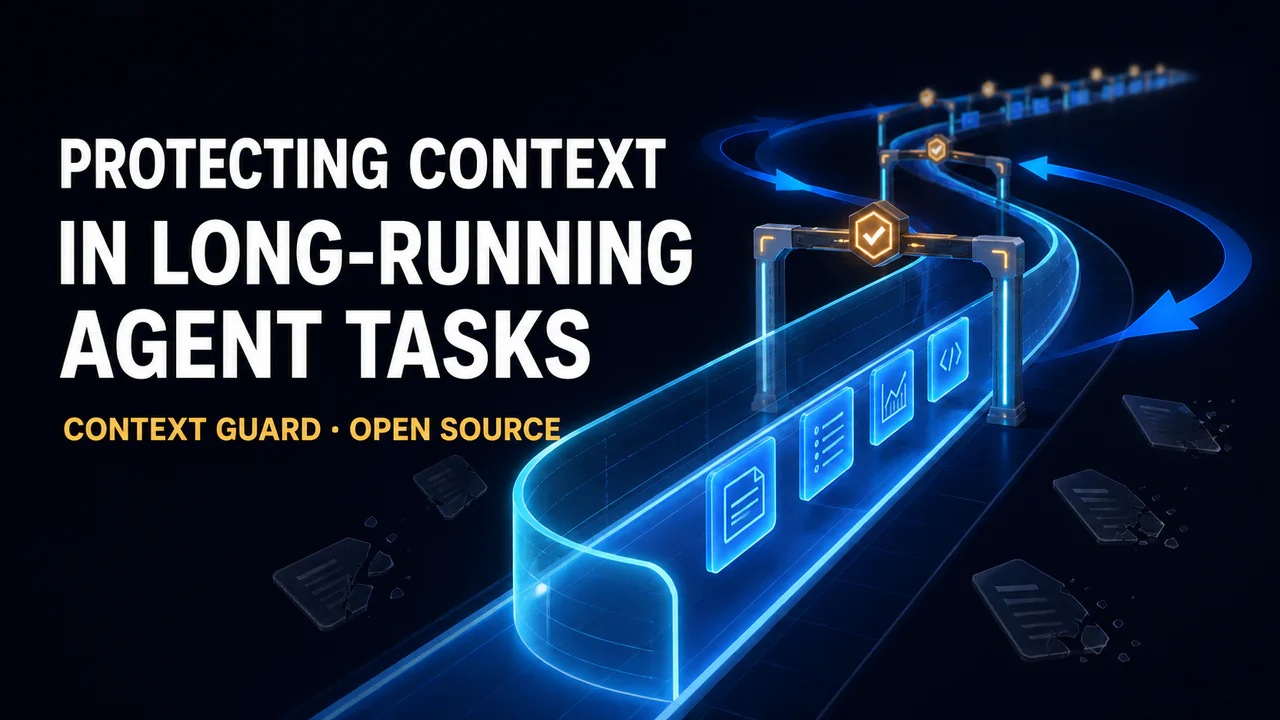
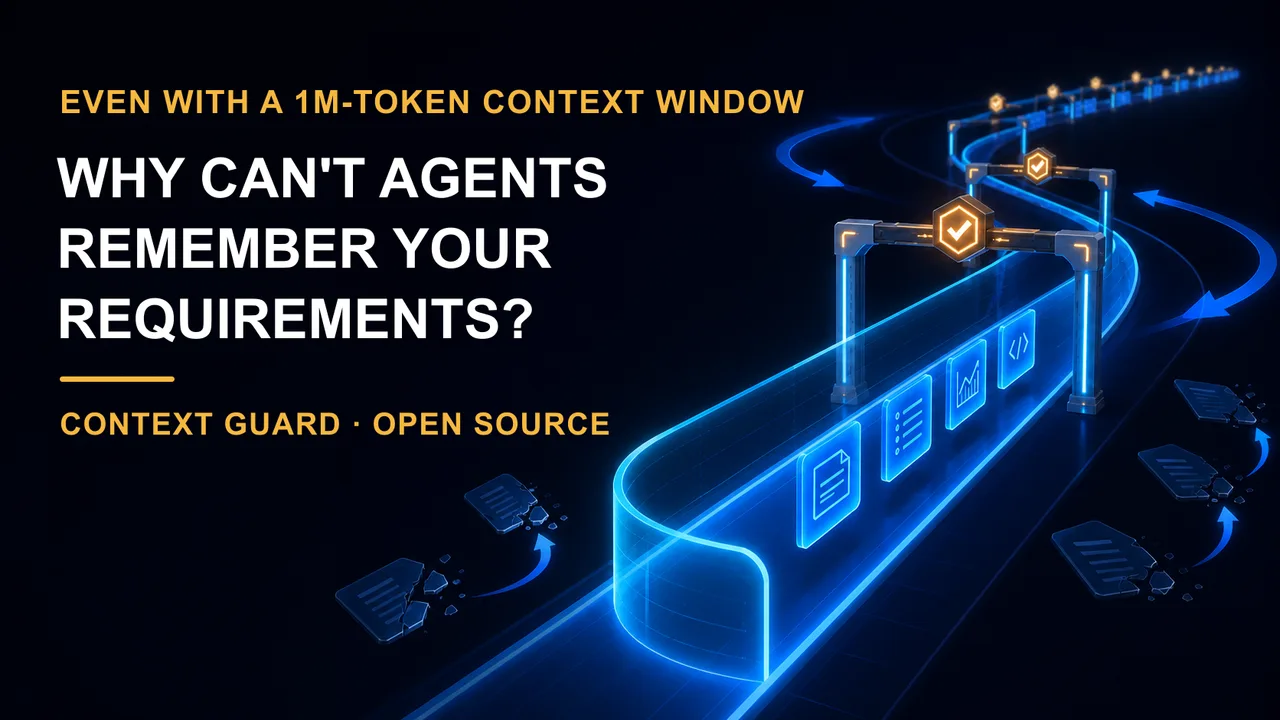
Update Context Guard article

diff --git a/_posts/2026-08-06-protecting-context-in-long-running-agent-tasks.md b/_posts/2026-08-06-protecting-context-in-long-running-agent-tasks.md
@@ -1,13 +1,13 @@
 ---
-title: "Protecting Context in Long-Running Agent Tasks: Introducing Context Guard"
+title: "Why Can't Agents Remember Your Requirements Even with a 1M-Token Context Window?"
 date: 2026-08-06 13:52:08 +0800
 permalink: /blogs/protecting-context-in-long-running-agent-tasks/
 categories:
   - blogs
-excerpt: "Context Guard keeps a private, verifiable ledger of active requirements and completion evidence so long-running Codex tasks can survive compaction without silently changing their contract."
+excerpt: "Why a 1M-token context window still does not keep an agent's requirements active—and how Context Guard preserves the task contract and completion evidence through long-running Codex work."
 header:
   teaser: blogs/context-guard-open-source-en.webp
-  teaser_alt: "A glowing workflow passes through guarded checkpoints in a cover illustration for Context Guard"
+  teaser_alt: "A guarded context path illustrating why a larger context window does not by itself preserve an agent's requirements"
 chinese_url: https://blog.csdn.net/LvGreat/article/details/163534498
 author_profile: true
 read_time: false
@@ -19,112 +19,136 @@ related: false
 <p class="blog-post-source">Also available as the <a href="{{ page.chinese_url }}">original Chinese article</a>.</p>
 
 <figure class="blog-cover">
-  <img src="{{ '/images/blogs/context-guard-open-source-en.webp' | relative_url }}" alt="A glowing workflow passes through guarded checkpoints, illustrating context protection in long-running agent tasks">
-  <figcaption>Context Guard protects the requirements and evidence that determine whether a long-running task is actually complete.</figcaption>
+  <img src="{{ '/images/blogs/context-guard-open-source-en.webp' | relative_url }}" alt="A guarded context path illustrating why a larger context window does not by itself preserve an agent's requirements">
+  <figcaption>A 1M-token context window can carry more material, but it does not automatically preserve the requirements that determine whether a long-running task is complete.</figcaption>
 </figure>
 
 <div class="blog-post-body" markdown="1">
 
-AI agents are changing the basic unit of work. In the past, we often understood one model call as one question-and-answer exchange or one local code change. Today, agents such as Codex are beginning to take on tasks that last for hours, days, or even longer. They call tools, coordinate multiple agents, and receive new requirements from users while the work is already in progress. [OpenAI's introduction to the Codex app](https://openai.com/index/introducing-the-codex-app/) describes this shift from targeted edits to longer-running collaboration across design, implementation, delivery, and maintenance.
+You may have seen this happen.
 
-In these long-running, dynamic tasks, the emerging practice of loop engineering reflects a continuous way of working: the agent executes one round, inspects the result, receives revisions, and continues. [The Codex agent loop](https://openai.com/index/unrolling-the-codex-agent-loop/) coordinates the user, model, and tools throughout that process.
+At the start, you tell an agent: “Do not change the existing format.” “Do not invent missing data.” “Keep the total under $2,000.” It follows those instructions for several rounds and repeatedly confirms that it understands them.
 
-Once a task enters this loop, the main correctness problem changes. It is no longer enough to ask how well the model performed in the latest turn. We also need to ensure two things:
+Then the task keeps running. Tokens keep burning, time disappears into searches, tool calls, and revisions, and you wait for a result that will finally justify the effort. What comes back is nowhere near what you expected: the format has changed, missing data has been confidently invented, or the budget cap that mattered most has vanished. The result is unusable, and you find yourself furiously typing into the chat box: “Didn't I say this at the very beginning?”
 
-1. **The task contract remains stable.** Goals, constraints, acceptance criteria, and later revisions confirmed by the user must not be silently rewritten after context compaction or task recovery.
-2. **Completion claims remain traceable to evidence.** Every active requirement should have corresponding successful evidence. Unverified, unauthorized, or unfinished work must not be presented as complete.
+The most frustrating part is that the agent has not forgotten the entire task. It still knows what you asked it to produce and can often repeat most of the background. It has lost one requirement that determines whether the result is usable.
 
-The goal is not to make the agent remember the entire conversation, nor to build another planning and scheduling system. The goal is to preserve the small amount of state that determines whether the result is correct: which requirements are currently active, which have been verified, and which still require work.
+A result like this is easy to blame on the model simply not being smart enough. But that diagnosis is incomplete. Model capability certainly affects performance, yet this exposes a different failure mode: understanding a requirement once does not guarantee that the requirement will continue to govern every later action. Even a capable model still needs an explicit way to maintain active requirements, later revisions, and completion evidence throughout a long-running task.
 
-To address this problem, I built and open-sourced [Context Guard](https://github.com/GreenLv/codex-context-guard). It is a local correctness sidecar for Codex that uses lifecycle hooks to maintain a private, verifiable ledger of requirements and evidence.
+Users of [Claude Code](https://github.com/anthropics/claude-code/issues/32659) and [Cursor](https://forum.cursor.com/t/critical-rules-do-not-survive-context-compression-events/157249) have reported the same pattern: a constraint is acknowledged early, then stops reliably shaping later actions as the session grows or is compressed. These reports do not prove a single cause. They describe the same practical failure: a requirement that has been present all along, and can still be restated accurately, ultimately fails to reliably constrain the agent's actions and final deliverable.
 
-A familiar travel-planning example shows what Context Guard does. A user begins with a simple request:
+It is tempting to reduce this to a context-capacity problem. Some models now offer windows on the order of one million tokens. [OpenAI lists GPT-5.6 Sol with a 1,050,000-token context window](https://developers.openai.com/api/docs/models/gpt-5.6-sol). That is a meaningful improvement: an agent can retain more code, tool output, and conversation history before older material has to be compacted. But a larger container does not guarantee that every important instruction remains active.
 
-> I want to travel from Wuhan to Beijing next week for seven days. Please plan the trip for me.
+The harder question is not only how much an agent can see. It is whether the agent can keep track of which requirements still apply, which revision superseded an earlier instruction, and what evidence is needed before the task can honestly be called complete.
 
-After Codex starts checking transportation, hotels, and attractions, the user adds more details: the trip is for the user and their mother; the mother has knee problems and cannot walk too much each day; both directions must use high-speed rail; the total budget for two people must stay below RMB 8,000; Wednesday from 15:00 to 19:00 is reserved for meeting a friend in Haidian; they want to visit the Forbidden City; and every reservation-dependent item must be checked against an official source before it can be described as booked.
+## 1. What a 1M-token window solves—and what it does not
 
-As Codex compares train services, hotels, reservation rules, and daily routes, the conversation grows. If context compaction happens at this point, the summary may still remember that the task is a seven-day trip from Wuhan to Beijing, yet omit the mother's walking constraint or schedule another attraction on Wednesday afternoon. It may also find an outdated travel guide and treat unverified opening hours or ticket availability as confirmed.
+### 1.1 A context window is a capacity limit, not a priority list
 
-The model has not forgotten the whole task. It still remembers the destination, but it has lost a few constraints that determine whether the plan can actually be used.
+A context window answers one question: how much input can participate in a model call. It does not assign permanent priority to a sentence such as “never modify the appendix,” or turn that sentence into an invariant across dozens of later actions.
 
-## 1. What problem does it solve?
+A long-running task can contain the original request, later corrections, tool results, error logs, source material, and several drafts at once. Even when all of it still fits, the model has to decide what matters before every action. In multi-document question answering and key-value retrieval experiments, [*Lost in the Middle*](https://arxiv.org/abs/2307.03172) found that performance was generally strongest when relevant information appeared near the beginning or end and degraded when it appeared in the middle, including for models explicitly designed for long contexts. The information is present, but presence alone does not ensure reliable use.
 
-For the Beijing trip, Context Guard focuses on the task contract that develops over time rather than the complete conversation:
+This distinction becomes more important as the window grows. One million tokens is not a curated requirements document. It is a very large workspace in which a few decisive constraints can be surrounded by a much larger volume of process material. Adding capacity does not perform the work of selecting and maintaining task state.
+
+### 1.2 Following a requirement is harder than retrieving a sentence
+
+Many long-context evaluations use a single-needle task: place one fact inside a large input and ask the model to retrieve it. Real requirements rarely look like one isolated needle. They are distributed across turns and often contain conditions, exceptions, and negation:
+
+- “Do not change the table format, but update these three columns.”
+- “Keep the total under $2,000, including local transportation.”
+- “Do not schedule anything on Wednesday afternoon,” rather than merely remembering that a meeting exists.
+- “Describe a reservation as booked only after checking a current official source.”
+
+The agent must retrieve these statements, combine them, map them to the current action, and check the result before delivery. That is a multi-step constraint problem, not a lookup.
+
+[A recent study of five models with advertised million-token windows](https://arxiv.org/abs/2605.02173) makes the distinction visible. The strongest models still reached 100% on single-needle retrieval at 1M tokens, but every model declined when the task required a three-hop chain across different parts of the context. Some remained above 80% through 512K and degraded modestly at 1M; others fell sharply between 512K and 1M. The corpus was classical Chinese, not agent instructions, but the result supports a narrower point that applies here: nominal window length does not measure how reliably a model can combine everything inside that window.
+
+### 1.3 Conversation history is not current task state
+
+Real tasks also change. A user may begin with “keep it under $2,500” and later revise the limit to $2,000. They may add a fixed appointment, remove an earlier deliverable, or clarify that an instruction applies to only one file.
+
+The full conversation now contains both the old and new versions. The agent still has to determine which requirement is active, which one was superseded, where a constraint applies, and which conflict needs clarification. Conversation history records what was said over time. Task state represents what should happen now. They are not the same data structure.
+
+More history can therefore preserve a conflict without resolving it. Unless revisions are represented explicitly, the agent may continue following the old instruction or treat a local correction as a global replacement.
+
+### 1.4 Remembering a requirement is not satisfying it
+
+Even correct retrieval does not complete the task. An agent may remember that it must check an official source and successfully open a page. That proves the lookup ran. It does not prove that the source is official, that the information is current, or that a reservation was completed. The agent may also produce a seven-day itinerary and a budget total while still placing an activity inside a fixed appointment.
+
+A long task therefore has at least three kinds of state: active requirements, work already performed, and evidence that the requirements were satisfied. Conversation history records much of what happened, but it does not automatically establish a requirement-to-evidence relationship. Without that relationship, “I ran a search,” “the command exited,” or “the file exists” can be mistaken for proof that the full requirement passed.
+
+### 1.5 Compaction is not the root cause, but it amplifies the problem
+
+One million tokens is still finite. As a task grows, an agent may compact earlier material or resume from a summary. Compaction is lossy by design. A summary tends to retain the main storyline while dropping a negative constraint, an acceptance condition, an unresolved conflict, or a recent revision. “Plan a seven-day New York trip” survives; “limit walking” and “do not call an unverified reservation booked” may not.
+
+Public Codex issues show two concrete versions of this failure. In [issue #19910](https://github.com/openai/codex/issues/19910), mid-turn compaction reportedly failed to carry forward the completion-audit requirement attached to the active goal, and local verification was treated as whole-goal completion. In [issue #35226](https://github.com/openai/codex/issues/35226), the agent retained the broad project objective but lost execution progress, repeatedly reread the same files, and restarted the same analysis. These are two public cases, not evidence of how frequently the problem occurs. They do illustrate the same distinction: preserving the main objective is not the same as preserving task state.
+
+A larger window delays compaction and lets the agent access more original material. Using the entire window also costs more. Under [GPT-5.6 Sol's current API pricing](https://developers.openai.com/api/docs/models/gpt-5.6-sol), once the input exceeds 272K tokens, the entire request—not only the excess—is charged at twice the input rate and 1.5 times the output rate. Long context is better treated as a resource than as a target to fill by default.
+
+A 1M-token window therefore relieves capacity pressure without automatically solving priority, revision, progress, or acceptance. The state that needs the strongest protection is usually much smaller than the conversation: the active requirements, their revision relationships, and the evidence needed to close them. That is the design premise of Context Guard.
+
+## 2. What Context Guard protects
+
+<figure class="blog-diagram">
+  <img src="{{ '/images/blogs/context-guard-body-leading-en.jpg' | relative_url }}" alt="A large context stream carries task records while Context Guard checkpoints protect critical requirements from drifting away">
+  <figcaption>Context Guard protects the requirements that determine whether a long-running task can be completed honestly.</figcaption>
+</figure>
+
+[Context Guard](https://github.com/GreenLv/codex-context-guard) is a local correctness layer I built for Codex. It does not store the whole conversation or try to replace model memory. It uses [lifecycle hooks](https://github.com/GreenLv/codex-context-guard/blob/main/docs/ARCHITECTURE.md) to maintain a private, verifiable ledger of requirements and evidence.
+
+Consider an everyday planning task. You begin with a simple request:
+
+> I am taking my mother from Boston to New York next week for seven days. Please plan the trip.
+
+After the assistant starts comparing trains, hotels, and attractions, you add the details that make the plan usable: your mother has knee pain and cannot walk long distances; both directions must be by train, with no flights; the total budget for two must stay below $2,000; Wednesday from 3:00 p.m. to 7:00 p.m. is reserved for meeting a friend in Queens; you want to visit the Statue of Liberty; and anything that depends on a reservation must be checked against a current official source before it can be described as booked.
+
+As the agent compares schedules, hotels, reservation rules, and daily routes, the conversation grows. After compaction, the summary may still remember “a seven-day New York trip from Boston” while dropping the walking constraint or scheduling an attraction on Wednesday afternoon. It may also rely on an outdated travel guide and describe unverified hours or ticket availability as confirmed.
+
+The whole task has not disappeared. A few conditions that determine whether the plan can be used have.
+
+Context Guard focuses on the contract that develops over time:
 
 ```text
-[ ] Seven-day round trip from Wuhan to Beijing next week
-[ ] Two travelers, the user and their mother; total budget below RMB 8,000
-[ ] High-speed rail in both directions; no flights
-[ ] The mother has knee problems: limit walking and avoid consecutive strenuous days
-[ ] Meet a friend in Haidian on Wednesday from 15:00 to 19:00; this slot is fixed
-[ ] Visit the Forbidden City
+[ ] Seven-day round trip from Boston to New York next week
+[ ] Two travelers: the user and their mother; total budget below $2,000
+[ ] Train in both directions; no flights
+[ ] The mother has knee pain: limit walking and avoid strenuous days back to back
+[ ] Meet a friend in Queens on Wednesday, 3:00–7:00 p.m.; keep this slot free
+[ ] Include a visit to the Statue of Liberty
 [ ] Verify reservations, opening hours, prices, and transportation with current official sources
 [ ] Mark every unverified or unbooked item as pending confirmation
 ```
 
-Codex still performs the searches, compares alternatives, builds the itinerary, calculates the budget, and coordinates subagents. Context Guard records only the information directly related to correctness: the user's requirements, later additions or revisions, usable evidence returned by tools, and any remaining work.
+Codex still performs the searches, compares options, builds the itinerary, calculates the budget, and coordinates subagents. Context Guard records only the information tied directly to correctness: the user's requirements, later additions or revisions, usable evidence returned by tools, and remaining work.
 
-After `/compact` or task recovery, the checklist returns to the context. Suppose Codex has created a seven-day itinerary and calculated the budget, but Wednesday afternoon still contains an attraction, or the requirement to verify the Forbidden City reservation against an official source has no successful evidence. Context Guard will not accept the conclusion that the trip has been fully planned. Codex must resolve the schedule conflict and clearly mark any unverified item as pending.
+After `/compact` or task recovery, the checklist returns to context. If no check has established that the Wednesday time slot remains free, or the official-source check for Statue of Liberty tickets has no corresponding successful evidence, Context Guard keeps those requirements open instead of accepting that the trip is fully planned merely because an itinerary was generated. Codex, a checking tool, or the user must still determine whether the itinerary actually satisfies the walking and scheduling constraints.
 
-The completion evidence is also straightforward. The seven-day schedule must satisfy the activity and time constraints for every day. The budget total must stay within the limit. Train services, opening hours, and reservation requirements need sources and query dates. An unfinished reservation must never be presented as successful.
+The point is not to make the summary longer. It is to stop the task contract from being quietly rewritten inside the summary.
 
-Context Guard therefore does not try to make summaries longer. It prevents the task contract from being quietly rewritten inside a summary.
+## 3. How it works
 
-## 2. How does it work with Codex?
-
-Context Guard does not reimplement Codex's native Plan, Goal, compaction, subagents, worktrees, or memories. The figure below shows the working path it protects:
+Context Guard does not replace Codex's native Plan, Goal, compaction, or subagents. It maintains a smaller correctness state: which requirements are active, how they were revised, which evidence succeeded, and what remains unfinished.
 
 <figure class="blog-diagram">
-  <img src="{{ '/images/blogs/context-guard-state-flow-en.png' | relative_url }}" alt="Context Guard preserves the task boundary, supports work and evidence collection, and then separates finishing, continuing, and pausing safely">
-  <figcaption>Context Guard records completion state separately from the decision to continue working or pause safely.</figcaption>
+  <img src="{{ '/images/blogs/context-guard-state-flow-en.png' | relative_url }}" alt="Context Guard carries the task boundary into work and evidence collection, then decides whether to finish, continue, or pause safely">
+  <figcaption>Context Guard carries the task boundary into work and evidence collection, then separates finishing, continuing, and pausing safely.</figcaption>
 </figure>
 
-Unfinished work is not collapsed into one ambiguous state. `user_wait` means the next action requires user input, confirmation, or authorization; `external_wait` means an external system or person must respond; and `deferred` means the item is explicitly postponed or outside the current scope. The legacy `continue` value remains accepted for compatibility, but it is advisory only: agent work continues through tool calls before a terminal reply, rather than by reopening a reply that has already ended the turn. Whole-task completion still requires all active requirements to pass validation.
+It has four main jobs:
 
-Four parts of this design matter most to me.
+- **Preserve active requirements.** After compaction or recovery, it restores the current task contract rather than the full transcript.
+- **Track revisions.** A new instruction can add to or replace an older one. If the replacement is ambiguous, the original requirement remains active until the conflict is resolved.
+- **Constrain completion with evidence.** Opening a page or running a command proves that an action occurred. Evidence must still match the right requirement, subject, and scope; ambiguous output cannot close the task.
+- **Separate delegated work from root authority.** A subagent can finish a bounded assignment, but it cannot rewrite the user's root requirements, and local success does not become whole-task success.
 
-### 2.1 A finished turn is not pulled back into a loop
+To avoid becoming noisy itself, Context Guard does not trigger the completion gate on every occurrence of “complete.” Questions, quotations, hypotheticals, and explicit negations are not treated as completion claims, while whole-task statements such as “all requirements are complete” still require supporting evidence.
 
-Context Guard treats two questions separately: “Is the whole task complete?” and “Should the agent keep working in this turn?” If the next step belongs to the user, depends on an external result, or has been intentionally postponed, the agent can stop normally while keeping every unfinished item pending. If more agent work is needed, it should happen through tool calls before the terminal reply. A wording guess alone cannot pull an already finished reply back into another turn.
+When the next step requires user confirmation, an external system, or an explicit deferral, Context Guard keeps the unfinished item open rather than confusing “safe to stop now” with “the whole task is complete.” Under the project's [privacy and retention design](https://github.com/GreenLv/codex-context-guard/blob/main/docs/PRIVACY.md), its runtime ledger stays local by default, outside the project Git history, and does not copy the full transcript.
 
-The plugin also distinguishes a real control command from the same words appearing in documentation or search text, reducing false control triggers. During an upgrade or recovery, it keeps the durable task ledger and discards only an outdated, unfinished control attempt.
+## 4. Installation and fit
 
-The same principle applies to installation: a versioned cache already used by a running task is never silently overwritten. If a cache no longer matches its trusted archive, Context Guard repairs it from the verified copy or stops safely instead of guessing.
-
-### 2.2 Later revisions do not erase history
-
-Long tasks rarely keep the same requirements from beginning to end. A user may add a constraint or explicitly replace an older requirement with a new one. Context Guard records that revision relationship instead of directly overwriting the old record.
-
-After compaction and recovery, it can therefore answer two different questions: what was originally requested, and which requirements are active now. When a negation or replacement is ambiguous, the plugin keeps the original requirement and waits for confirmation rather than guessing.
-
-### 2.3 Finding information does not mean satisfying a requirement
-
-Successfully opening a web page proves only that the search ran. It does not prove that the page is official, that its information is current, or that a reservation has been completed. A budget calculation that exits successfully does not prove that local transportation and other necessary expenses are included.
-
-Context Guard prefers structured state, exit codes, and explicit completion markers. Ambiguous output is recorded as `unknown` and cannot directly support a completion claim. In the travel example, the itinerary, budget summary, and dated official sources are separate pieces of evidence. A generic search result cannot automatically replace them.
-
-When a verification obligation can be constructed deterministically, Context Guard also binds the evidence to the exact requirement or acceptance item, subject, file or UI surface, visual input or result readback, and complete requested scope. A successful command for the wrong object, surface, or subset cannot close the item. If those boundaries cannot be established reliably, the item remains an auditable `legacy_fallback` rather than being treated as semantically proved.
-
-This still does not mean the plugin can understand the full semantics of every piece of evidence. For enforced contracts, it checks only deterministic bindings and scope; for unsupported cases, `legacy_fallback` retains the compatible provenance and outcome gate. It cannot prove that evidence is logically sufficient, interpret arbitrary pixels, or establish that a source is official. Codex and the user still own the design of the final validation.
-
-### 2.4 Subagents have explicit provenance but cannot change the root task
-
-In a multi-agent task, a subagent receives a bounded delegation, not new authorization from the user. Context Guard records the agent's start, finish, result, and provenance, but a subagent cannot create, cancel, or replace a root-task requirement.
-
-This prevents a common source of confusion: completing a local subtask does not complete the whole task, and a subagent's suggestion does not mean that the user changed the original requirements.
-
-## 3. Why keep the state private?
-
-A requirements ledger may contain unpublished travel details, code paths, document constraints, or other task context. It should not enter the project's Git history.
-
-The public Context Guard repository contains only the plugin code, hooks, schema, documentation, and tests. Runtime data is written to Codex-managed `PLUGIN_DATA` and remains local by default. The plugin does not store chain-of-thought, copy the complete transcript, or initiate network requests.
-
-Users can explicitly run `context-guard export` or `rollover` to create a redacted handoff or a bounded successor pack. The export process omits common credentials, authorization headers, URL query parameters, original prompt files, and private plugin paths. Automatic redaction is not a substitute for review, however. Any handoff intended for sharing should still be inspected before it leaves the machine.
-
-## 4. Installation and first validation
-
-The project requires Python 3.10 or later. The currently validated minimum baseline for the Codex CLI is `0.146.0`.
+Under the current [published requirements](https://github.com/GreenLv/codex-context-guard/blob/main/README.md#requirements), the project requires Python 3.10 or later, and the validated minimum baseline for the Codex CLI is `0.146.0`.
 
 On macOS and Linux:
 
@@ -140,63 +164,50 @@ On Windows:
 py -3.10 scripts\manage_plugin.py --apply
 ```
 
-After installation, start a new Codex task and inspect the eight hook definitions under `/hooks`. Trust them only after confirming that their commands match the repository contents; plugin installation does not bypass hook trust automatically.
-
-Then enter:
+After installation, use the following controls in a Codex conversation to activate Context Guard, inspect its status, or run diagnostics:
 
 ```text
 $context-guard
-```
-
-And run:
-
-```text
 context-guard status
 context-guard diagnose
 ```
 
-To validate the complete recovery path, create a task with several requirements and prohibited actions, run `/compact`, and then verify that continuation restores the same active requirements.
-
-For complete installation, upgrade, and removal instructions, see the project's [English README](https://github.com/GreenLv/codex-context-guard/blob/main/README.md).
-
-## 5. Which tasks benefit from it?
-
-Context Guard is most useful for tasks that last for a while, may receive revised requirements, and need tool results to demonstrate completion. Examples include:
+Context Guard is most useful when a task runs for a while, receives revised requirements, and needs tool results to demonstrate completion. Examples include:
 
 - planning a complex trip while adding budget, companion, fixed-time, or transportation constraints;
 - writing or editing a document while preserving a template, terminology, numbers, and protected scope;
 - refactoring code while maintaining existing interfaces, data formats, or compatibility behavior;
 - running experiments or processing files in batches without presenting partial success as complete;
-- coordinating multiple subagents while distinguishing root-task authorization from bounded delegation;
-- handing a task to a successor without copying the complete conversation.
+- coordinating multiple subagents while distinguishing root-task authorization from bounded delegation.
 
-For a small change completed within a single conversation, enabling the full protection workflow is usually unnecessary.
+For a small change completed in one conversation, the full workflow is usually unnecessary. In the project's [published sample of five completed, tool-heavy desktop tasks](https://github.com/GreenLv/codex-context-guard/blob/main/README.md#observed-token-overhead) using 0.6.1, the observed additional token share ranged from about 0.2% to 2.1%, with a weighted value of about 1.5%. This is a small-sample order of magnitude, not a guarantee for every workload.
 
-Context Guard adds prompt and recovery context to protected tasks. In a small, anonymized sample of five completed, tool-heavy desktop tasks using 0.6.1, the weighted observation including plugin-triggered status checks was about 1.5%, with individual tasks at roughly 0.2%–2.1%. For similar long-running work, about 1%–2% is a useful order-of-magnitude estimate rather than a guaranteed rate; token share is not the same as cost share.
+The project has scoped native acceptance on macOS and Windows. Linux is currently claimed only for source CI. Context Guard is not a semantic correctness prover, security sandbox, cloud sync service, or complete conversation backup. See the [English README](https://github.com/GreenLv/codex-context-guard/blob/main/README.md), [Compatibility](https://github.com/GreenLv/codex-context-guard/blob/main/docs/COMPATIBILITY.md), and [Local release acceptance](https://github.com/GreenLv/codex-context-guard/blob/main/docs/LOCAL_ACCEPTANCE.md) for the full installation and evidence boundaries.
 
-## 6. Current validation status and boundaries
-
-The project currently has scoped native acceptance on macOS and Windows. Linux is claimed only for source CI; native desktop installation and hook behavior are not claimed. See [Compatibility](https://github.com/GreenLv/codex-context-guard/blob/main/docs/COMPATIBILITY.md) and [Local release acceptance](https://github.com/GreenLv/codex-context-guard/blob/main/docs/LOCAL_ACCEPTANCE.md) for the current evidence boundaries.
-
-Context Guard is not a semantic correctness prover, security sandbox, cloud synchronization service, complete conversation backup, or second agent scheduler. Its proof protocol enforces only deterministic obligations; it does not interpret arbitrary natural language or pixels or establish official-source validity. It protects the task contract, revision relationships, a limited plan mirror, agent results with explicit provenance, and completion evidence.
-
-I want the project to remain focused. The immediate priorities are preventing silent requirement loss, making revisions traceable, refusing unsupported completion claims, and keeping private state out of Git. Reproducible problems, rather than feature accumulation, should drive future work.
-
-Published releases and their exact validation notes are available on [GitHub Releases](https://github.com/GreenLv/codex-context-guard/releases/latest).
-
-Context Guard is also listed in [awesome-codex-plugins](https://github.com/hashgraph-online/awesome-codex-plugins) under **Development & Workflow**.
-
-## 7. Summary
+## 5. Summary
 
 The central idea behind Context Guard is simple:
 
-> Do not infer the task contract from a compacted summary. Maintain a private, verifiable ledger of requirements and evidence locally, restore the active requirements after compaction, and then decide whether the task is complete.
+> Do not infer the task contract from a compacted summary. Keep a private, verifiable ledger of active requirements and completion evidence locally, restore it after compaction, and then decide whether the task is complete.
 
-If you use Codex for long-running work and have seen requirements drift after compaction, a task stop after only partial validation, or unclear authorization boundaries in multi-agent collaboration, you are welcome to try it:
+A 1M-token context window lets an agent carry more material. “Can carry more” and “will not lose a critical requirement” are still different claims. In a long-running task, the information that needs the strongest protection is often not the whole conversation. It is the small set of constraints that determine whether the result can be delivered, together with the evidence that those constraints were met.
 
-**GitHub: [GreenLv/codex-context-guard](https://github.com/GreenLv/codex-context-guard)**<br>
+If you use Codex for long-running work and have seen requirements drift after compaction, a task stop after partial validation, or unclear authorization boundaries in multi-agent collaboration, you are welcome to try it:
+
+**GitHub: [GreenLv/codex-context-guard](https://github.com/GreenLv/codex-context-guard)**
+
 **Latest release: [GitHub Releases](https://github.com/GreenLv/codex-context-guard/releases/latest)**
 
-If the project is useful to you, consider starring it, opening an issue, or sharing a reproducible context failure from a long-running task. Reproducible failures are a better basis for the roadmap than a longer feature list.
+If the project is useful to you, consider starring it, opening an issue, or sharing a reproducible context failure.
+
+## References
+
+- [GPT-5.6 Sol model page](https://developers.openai.com/api/docs/models/gpt-5.6-sol)
+- [Lost in the Middle: How Language Models Use Long Contexts](https://arxiv.org/abs/2307.03172)
+- [Codex issue #19910: active goal and audit requirements can be lost after compaction](https://github.com/openai/codex/issues/19910)
+- [Codex issue #35226: auto-compaction can lose progress and repeat file reads](https://github.com/openai/codex/issues/35226)
+- [Retrieval and Multi-Hop Reasoning in 1M-Token Context Windows](https://arxiv.org/abs/2605.02173)
+- [Claude Code issue #32659: context amnesia in long sessions — constraints silently dropped as context grows](https://github.com/anthropics/claude-code/issues/32659)
+- [Cursor forum: “Rules” do not survive context compression events](https://forum.cursor.com/t/critical-rules-do-not-survive-context-compression-events/157249)
 
 </div>
